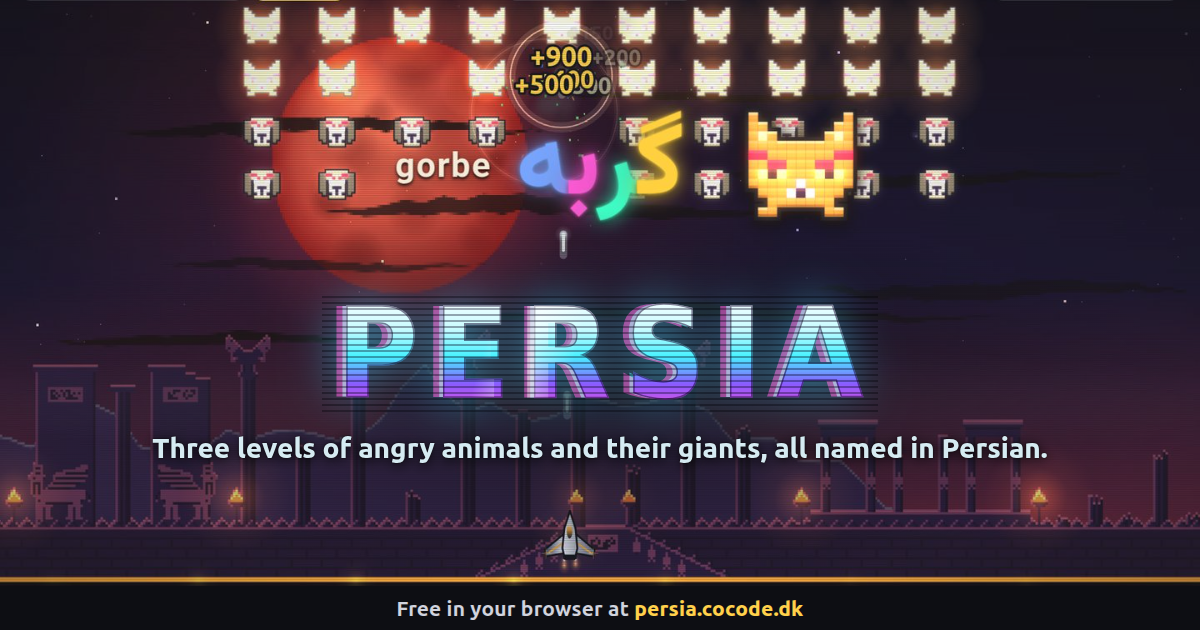
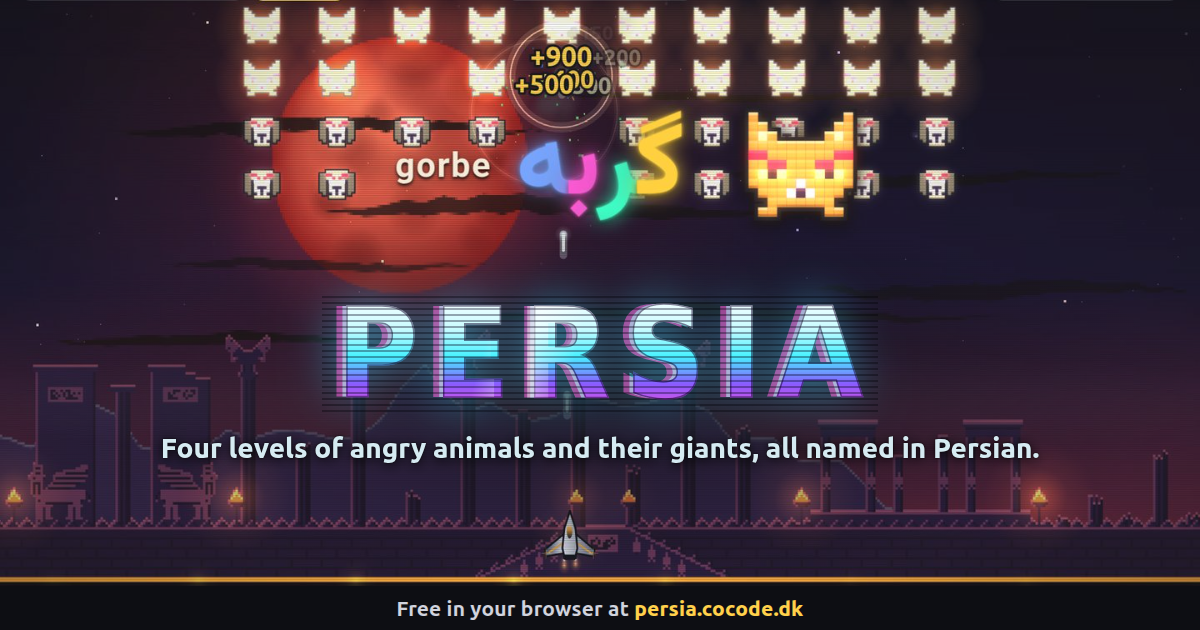
docs: the README, llms.txt, page and social card name four levels

Changed region(s): [[0.1233, 0.6937, 0.8633, 0.754]]

diff --git a/index.html b/index.html
@@ -9,21 +9,21 @@
   <meta charset="utf-8">
   <meta name="viewport" content="width=device-width, initial-scale=1">
   <title>Persia: an arcade shooter</title>
-  <meta name="description" content="Free arcade shooter in your browser. Three levels of angry animals, each named in Persian as it arrives, and a giant at the end of each.">
+  <meta name="description" content="Free arcade shooter in your browser. Four levels of angry animals, each named in Persian as it arrives, and a giant at the end of each.">
   <meta name="robots" content="index, follow">
   <meta name="theme-color" content="#05060b">
   <meta name="color-scheme" content="dark">
   <meta property="og:type" content="website">
   <meta property="og:site_name" content="Persia">
   <meta property="og:title" content="Persia: an arcade shooter">
-  <meta property="og:description" content="Shoot down waves of angry animals and three giants: a cat, a mouse and a fish. You hear each animal's name in Persian when it shows up. Free in your browser.">
+  <meta property="og:description" content="Shoot down waves of angry animals and four giants: a cat, a mouse, a fish and a bird. You hear each animal's name in Persian when it shows up. Free in your browser.">
   <meta property="og:image:width" content="1200">
   <meta property="og:image:height" content="630">
   <meta property="og:image:alt" content="The PERSIA logo under a formation of angry pixel cats and dogs, a blood-red moon over the ruins of Persepolis, and a Persian word with each letter in its own colour">
   <meta property="og:locale" content="en_US">
   <meta name="twitter:card" content="summary_large_image">
   <meta name="twitter:title" content="Persia: an arcade shooter">
-  <meta name="twitter:description" content="Shoot down waves of angry animals and three giants: a cat, a mouse and a fish. You hear each animal's name in Persian when it shows up. Free in your browser.">
+  <meta name="twitter:description" content="Shoot down waves of angry animals and four giants: a cat, a mouse, a fish and a bird. You hear each animal's name in Persian when it shows up. Free in your browser.">
   <meta name="twitter:image:alt" content="The PERSIA logo under a formation of angry pixel cats and dogs, a blood-red moon over the ruins of Persepolis, and a Persian word with each letter in its own colour">
   <link rel="canonical" href="https://persia.cocode.dk/">
   <meta property="og:url" content="https://persia.cocode.dk/">
@@ -34,7 +34,7 @@
     "@context": "https://schema.org",
     "@type": "VideoGame",
     "name": "Persia",
-    "description": "Free arcade shooter in your browser. Three levels of angry animals, each named in Persian as it arrives, and a giant at the end of each.",
+    "description": "Free arcade shooter in your browser. Four levels of angry animals, each named in Persian as it arrives, and a giant at the end of each.",
     "url": "https://persia.cocode.dk/",
     "image": "https://persia.cocode.dk/og.png",
     "genre": ["Shooter", "Arcade"],

diff --git a/og.html b/og.html
@@ -50,7 +50,7 @@
     <h1 class="logo">
       <span class="logo-glow">PERSIA</span><span class="logo-chroma c1">PERSIA</span><span class="logo-chroma c2">PERSIA</span><span class="logo-text">PERSIA</span><span class="logo-shine">PERSIA</span>
     </h1>
-    <p class="tagline">Three levels of angry animals and their giants, all named in Persian.</p>
+    <p class="tagline">Four levels of angry animals and their giants, all named in Persian.</p>
   </div>
   <div class="bar"><p class="play">Free in your browser at <b>persia.cocode.dk</b></p></div>
 </body>

diff --git a/README.md b/README.md
@@ -6,21 +6,21 @@ Persia is an arcade shooter for a laptop, played with keyboard and mouse in your
 
 ## What it is
 
-You fly a ship along the bottom of the screen and shoot angry pixel animals. There are three levels of five waves each, and a wave is a group of enemies that flies in together. Level 1 plays over the ruins of Persepolis. There you meet a dog, a cow, a rabbit, a bird, a cat, a horse and a fish, and after wave 5 a giant cat arrives as the boss. Level 2 plays at night over Si-o-se-pol, the bridge of thirty-three arches in Isfahan. Its waves count on from 6 to 10, a mouse joins the animals, and the boss is a giant mouse. Level 3 plays at the Tomb of Hafez in Shiraz, among cypresses and orange trees. Its waves count on from 11 to 15, all eight animals fly, and the boss is a giant fish. All three levels are open from the start, and the title screen lists them as Level 1, Level 2 and Level 3.
+You fly a ship along the bottom of the screen and shoot angry pixel animals. There are four levels of five waves each, and a wave is a group of enemies that flies in together. Level 1 plays over the ruins of Persepolis. There you meet a dog, a cow, a rabbit, a bird, a cat, a horse and a fish, and after wave 5 a giant cat arrives as the boss. Level 2 plays at night over Si-o-se-pol, the bridge of thirty-three arches in Isfahan. Its waves count on from 6 to 10, a mouse joins the animals, and the boss is a giant mouse. Level 3 plays at the Tomb of Hafez in Shiraz, among cypresses and orange trees. Its waves count on from 11 to 15, all eight animals fly, and the boss is a giant fish. Level 4 plays at the Azadi Tower in Tehran. Its waves count on from 16 to 20, birds fill the sky, rain starts falling at wave 18, and the boss is a giant bird. All four levels are open from the start. The title screen shows them as cards side by side, each with a small picture of its place and the place's name.
 
-You have three lives. Lose all three and the level starts again from its first wave. Beat the boss and that level's animals parade past, each named once. Then you see your score, with Next (after levels 1 and 2), Again and Title.
+You have three lives. Lose all three and the level starts again from its first wave. Beat the boss and that level's animals parade past, each named once. Then you see your score, with Next (after levels 1, 2 and 3), Again and Title.
 
 The first time you start a level after the page loads, a short film-style opening runs. Press any key after the first second to skip it. Reloading the page brings it back.
 
-A voice speaks Persian as things happen. It says each wave's number as the wave starts, and each animal's name the first time that animal appears in a wave. Whatever it says also shows on screen for about a second:
+A voice speaks Persian as things happen. It says each wave's number as the wave starts, and each animal's name the first time that animal appears in a wave. In level 4 it also says باران (baran, rain) when the rain starts. Whatever it says also shows on screen for about a second:
 
 - the Persian word, each letter in its own colour (for a wave number, its Persian digits);
 - the same word in Latin letters beside it while it is said, so the cat shows گربه next to "gorbe";
 - for an animal, its face drawn big.
 
-There are no captions or translations. The menus are in English, and so is the score in levels 1 and 2. In levels 2 and 3 the wave count at the top of the screen is in Persian digits, and in level 3 so is the score.
+There are no captions or translations. The menus are in English, and so is the score in levels 1 and 2. In levels 2 to 4 the wave count at the top of the screen is in Persian digits, in levels 3 and 4 so is the score, and in level 4 the combo and the level's own number are too.
 
-Persia is forked from [Invaders](https://github.com/cocodedk/invaders), Babak Bandpey's own arcade shooter, and cut down to what these three levels run.
+Persia is forked from [Invaders](https://github.com/cocodedk/invaders), Babak Bandpey's own arcade shooter, and cut down to what these four levels run.
 
 ## How to play
 
@@ -45,7 +45,7 @@ You need Python 3, or any other static file server.
 
 1. Open a terminal in the project folder (`git clone https://github.com/cocodedk/persia-game.git` if you don't have it yet).
 2. Run `python3 -m http.server 8000`. It prints that it is serving on port 8000.
-3. Open http://localhost:8000/ in your browser. You should see the PERSIA title screen with Level 1, Level 2 and Level 3 buttons.
+3. Open http://localhost:8000/ in your browser. You should see the PERSIA title screen with four level cards, Level 1 to Level 4.
 
 Browsers do not run module scripts from a `file://` address, so double-clicking `index.html` will not work. There are no dependencies, no build step and no network requests while you play.
 
@@ -65,7 +65,7 @@ The design spec and the build plan are in `docs/superpowers/`.
 
 ## Voice clips
 
-There are twenty-three clips, in `public/audio/`: the eight animal names and the numbers one to fifteen. They come from the [Danish-Persian-Lessons](https://github.com/cocodedk/Danish-Persian-Lessons) repository. Nothing is generated while you play. Each clip was made ahead of time with the Piper voice model `fa_IR-ganji-medium`, and a native Persian reviewer approved it before it was added. A new clip needs a new review.
+There are twenty-nine clips, in `public/audio/`: the eight animal names, the numbers one to twenty, and the word for rain. They come from the [Danish-Persian-Lessons](https://github.com/cocodedk/Danish-Persian-Lessons) repository. Nothing is generated while you play. Each clip was made ahead of time with the Piper voice model `fa_IR-ganji-medium`, and a native Persian reviewer approved it before it was added. A new clip needs a new review.
 
 `public/audio/manifest.json` records, for every clip, the text it speaks, the voice model and its checksum, the engine version, the reviewer and the clip's own SHA-256 checksum. The script that copied the clips in, `scripts/lift-clips.mjs`, refuses any clip with no reviewer on record.
 

diff --git a/CLAUDE.md b/CLAUDE.md
@@ -3,7 +3,7 @@
 A 2D arcade shooter for a laptop, forked from invaders (`../invaders`), that plays Persian as the
 soundtrack of what happens on screen. It is a game first and never calls itself a lesson. The design
 is `docs/superpowers/specs/2026-10-24-persia-design.md` and the build plan goes in
-`docs/superpowers/plans/`; the spec is the authority. Scope now: world 1 (animals), three levels so far;
+`docs/superpowers/plans/`; the spec is the authority. Scope now: world 1 (animals), four levels so far;
 Babak plays each one before the next is planned. Deploys to `persia.cocode.dk`.
 
 Invaders is the reference architecture: copy and adapt from it, never import across repos. The lessons
